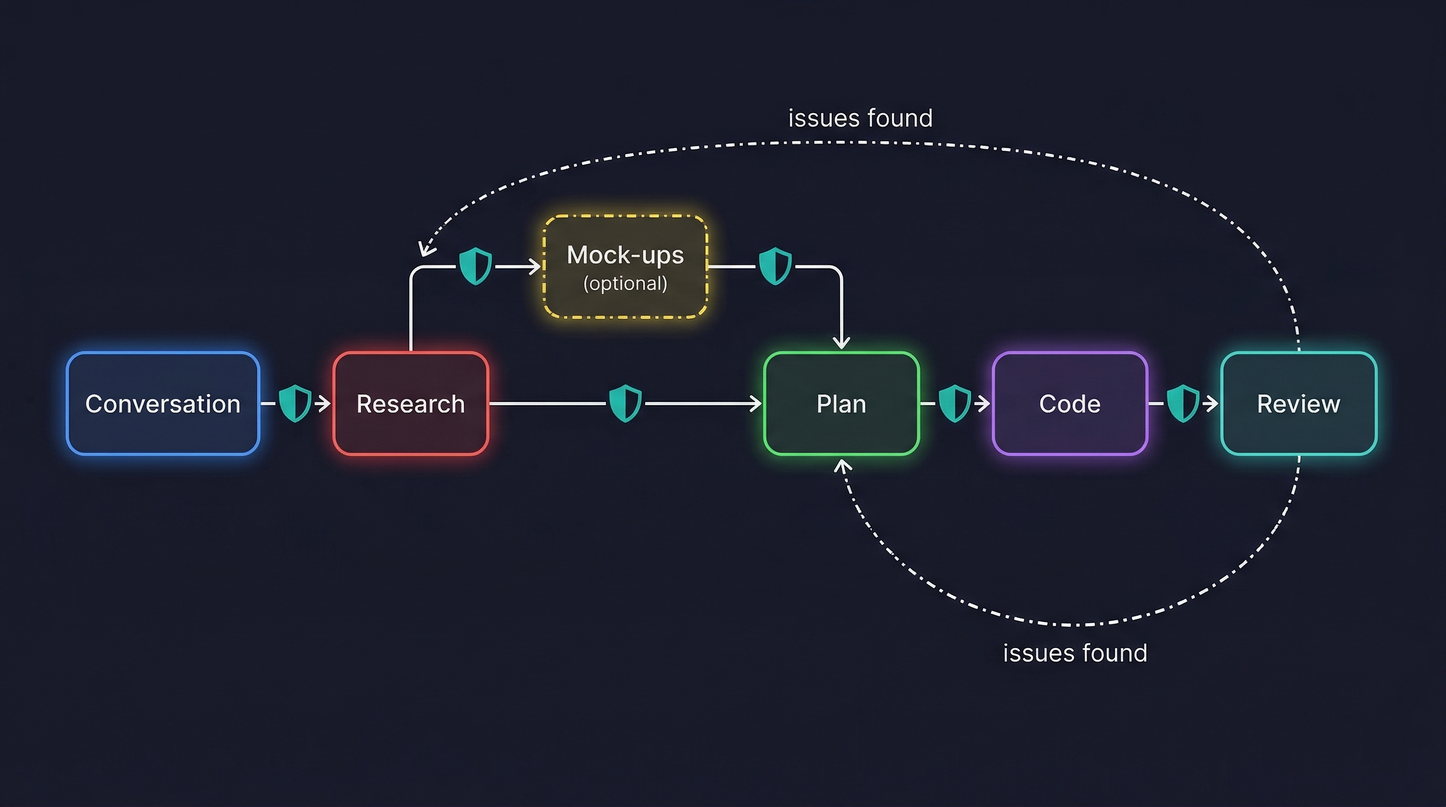
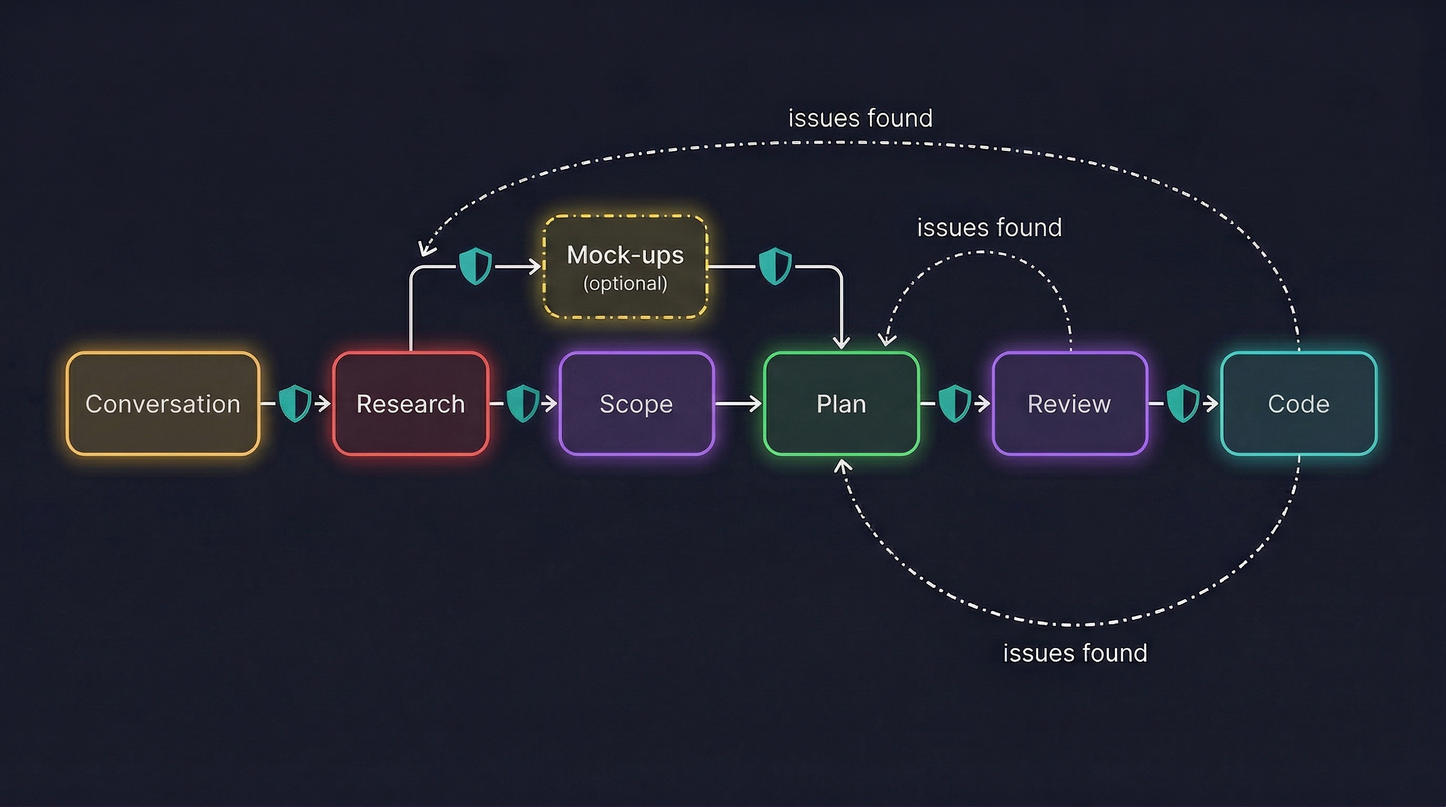
Update README diagrams for v1.3.0 pipeline + review gate
- pipeline_flow.png: 7-step pipeline (added Scope, Review before Code)
- plan_review.png: new review gate with 3 mandatory agents + circuit breaker
- README alt text updated for new review diagram
- CHANGELOG [1.3.0] reference link added

Generated with /serious-bananas (Nano Banana 2, gemini-3.1-flash-image-preview)

diff --git a/README.md b/README.md
@@ -135,12 +135,12 @@ Three fidelity levels — wireframe (ASCII), visual (Gemini-generated), and inte
 
 Generates implementation plans using the v6 template. Not a to-do list — a contract with testable acceptance criteria, TDD protocol, and independent review.
 
-<img src="images/readme/plan_review.png" alt="Plan review diagram showing Phase A persona reviews, Phase B mechanical reviews, severity-based convergence, and multi-plan integration review" width="100%">
+<img src="images/readme/plan_review.png" alt="Plan review diagram showing 3 mandatory agents (Anti-Slop Auditor, Structural Reviewer, Security Mind) reading plan cold, producing a verdict with circuit breaker" width="100%">
 
-- **Adaptive persona pipeline** — selects reviewers based on what the plan touches (UI → End User, auth → Security Reviewer, async → Concurrency Engineer)
-- **Severity-weighted convergence** — any Critical finding forces re-review, max 3 rounds
+- **3 mandatory review agents** — Anti-Slop Auditor (10 checks), Structural Reviewer, Security Mind. All read the plan cold — no research context, no author notes
+- **10 anti-slop checks** — weasel words, missing outputs, test gaps, copy-paste echo, scope creep, phantom architecture, unspecified error contracts, magic numbers, implicit ordering, dead-end tasks
+- **Circuit breaker** — 2 rounds max. FAIL = fix and re-review. After 2 failures, escalate to user
 - **Every acceptance criterion** must be testable and encodable as a test (TDD)
-- **Single or multiple plans** with a phase map for parallel execution
 
 <br>
 
